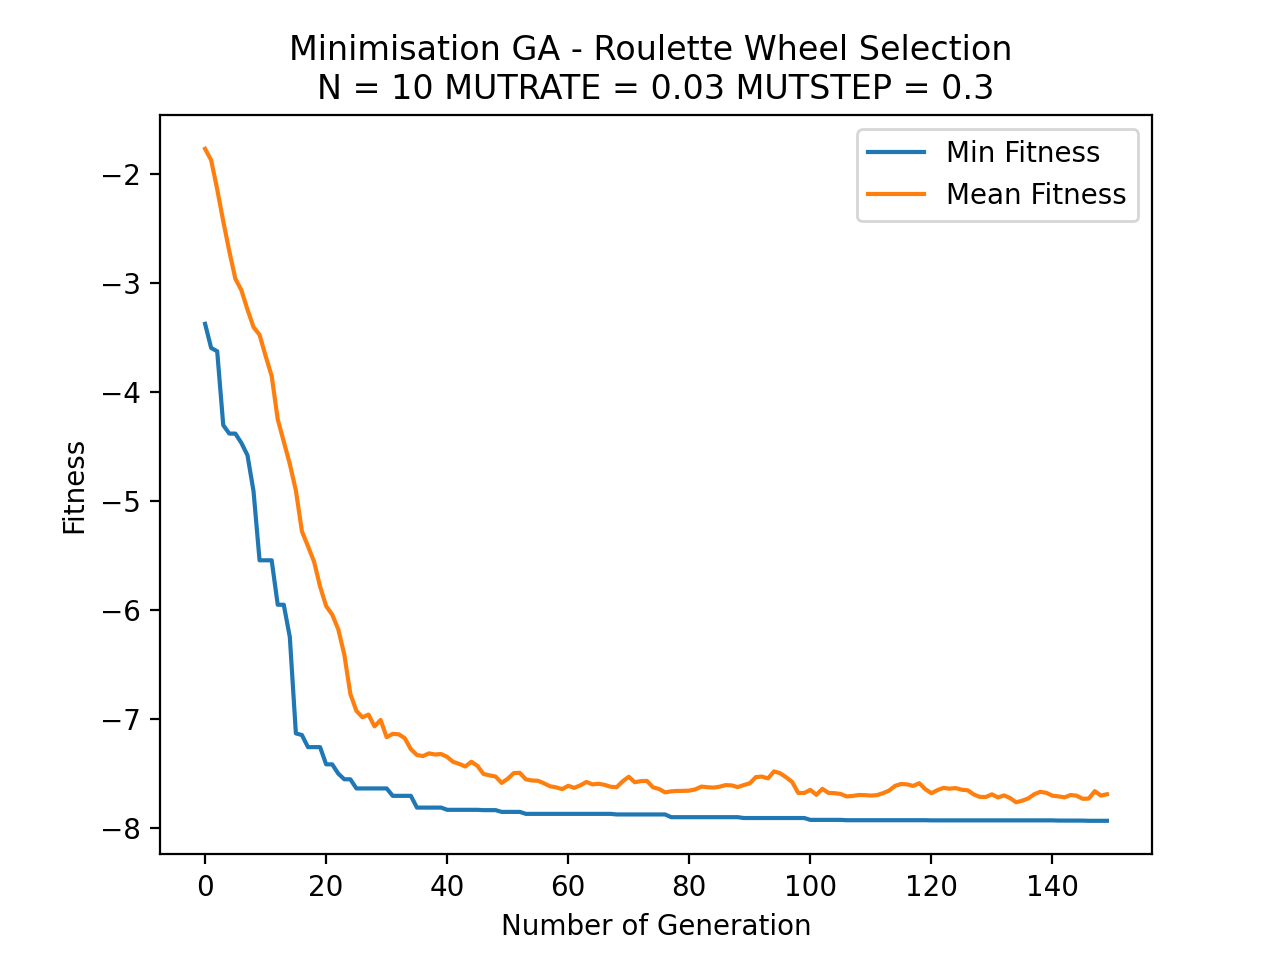
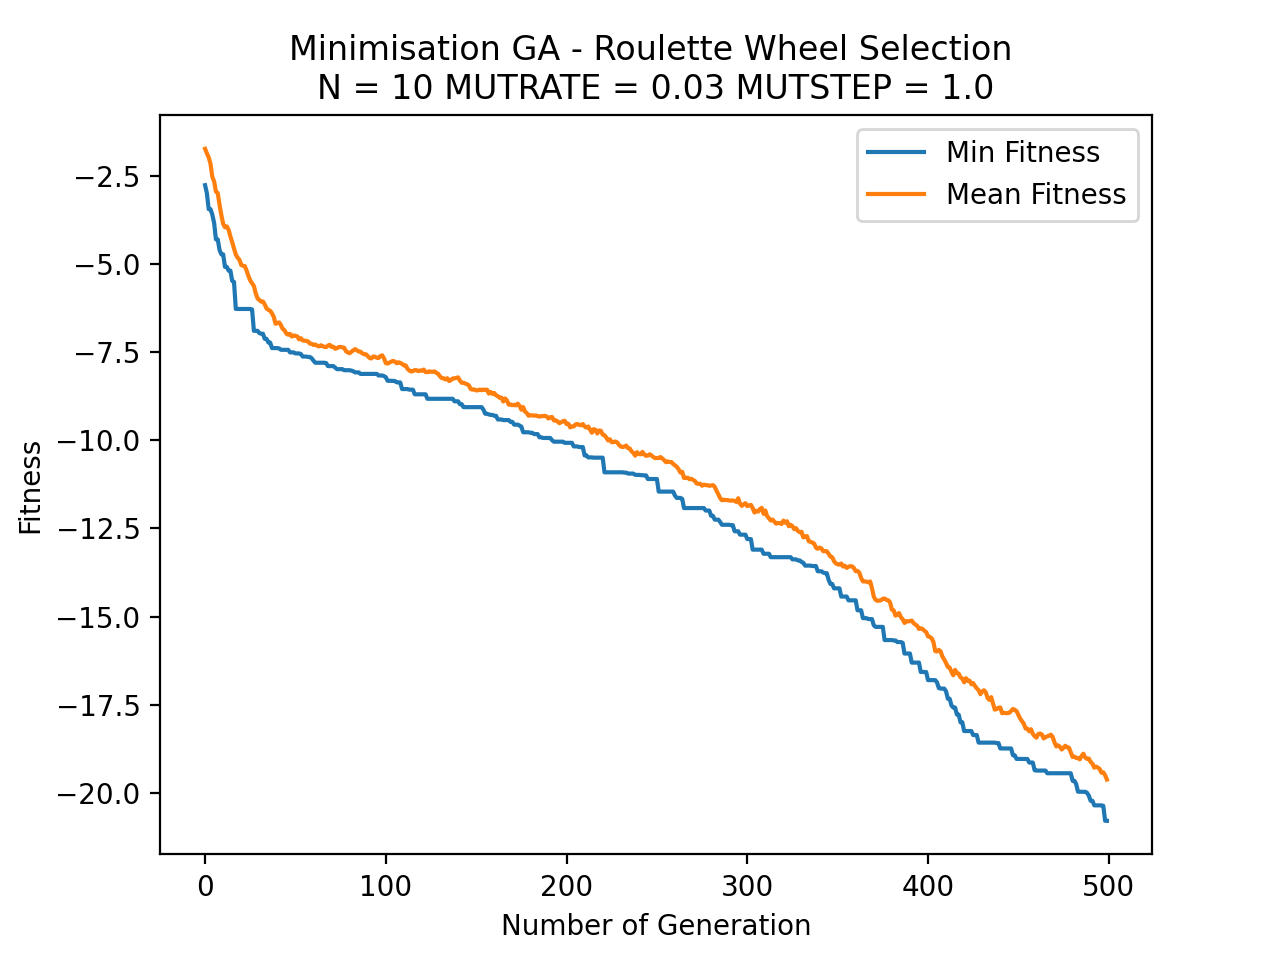
updated Ackley function Experiment with length of genes 20

diff --git a/Experiment/Ackley function/README.md b/Experiment/Ackley function/README.md
@@ -6,17 +6,19 @@
 
 - N = 10
 - MUTRATE = 0.03
-- MUTSTEP = 0.3
-- Min Fitness: -10.708492338435587 - TS
-- Min Fitness: -9.426192516643226 - RW
+- MUTSTEP = 1.0
+- GENERATIONS = 500
+- Min Fitness: -22.70467498720863 - TS
+- Min Fitness: -22.660896711024847 - RW
 
-- ![alt text](https://github.com/Liam1809/Bio_Computation/blob/main/Experiment/Ackley%20function/TSRWN50.png)
+- ![alt text](https://github.com/Liam1809/Bio_Computation/blob/main/Experiment/Ackley%20function/TSRWN20.png)
 
-- N = 50
+- N = 20
 - MUTRATE = 0.03
-- MUTSTEP = 0.3
-- Min Fitness: -4.225967898881414 - TS
-- Min Fitness: -4.0251242091551624 - RW
+- MUTSTEP = 1.0
+- GENERATIONS = 2000
+- Min Fitness: -22.711527080568395 - TS
+- Min Fitness: -22.492373930549075 - RW
 
 
 ## TOURANMENT SELECTION 
@@ -26,19 +28,19 @@
 
 - N = 10
 - MUTRATE = 0.03
-- MUTSTEP = 0.3
-- Min Fitness: -10.852278293354441
-- Mean Fitness: -10.804764892978262
+- MUTSTEP = 1.0
+- Min Fitness: -22.69766205527787
+- Mean Fitness: -22.482874238764634
 
 ### Vary MUTRATE
 - ![alt text](https://github.com/Liam1809/Bio_Computation/blob/main/Experiment/Ackley%20function/varyMUTRATETS.png)
 
 - N = 10
-- MUTSTEP = 0.3
-- Min Fitness: -8.610121679863145 - MUTRATE 0.3
-- Min Fitness: -11.170587355807932 - MUTRATE 0.03
-- Min Fitness: -9.524295765255925 - MUTRATE 0.003
-- Min Fitness: -8.867615254560471 - MUTRATE 0.0003
+- MUTSTEP = 1.0
+- Min Fitness: -22.217696415755263 - MUTRATE 0.3
+- Min Fitness: -22.70308682584893 - MUTRATE 0.03
+- Min Fitness: -16.68581671572027 - MUTRATE 0.003
+- Min Fitness: -14.860042035928736 - MUTRATE 0.0003
 
 
 ## ROULETTE WHEEL SELECTION 
@@ -48,15 +50,15 @@
 
 - N = 10
 - MUTRATE = 0.03
-- MUTSTEP = 0.3
-- Min Fitness: -7.929936862642863
-- Mean Fitness: -7.686559831777039
+- MUTSTEP = 1.0
+- Min Fitness: -20.795512818455332
+- Mean Fitness: -19.624791800370012
 
 ### Vary MUTRATE
 - ![alt text](https://github.com/Liam1809/Bio_Computation/blob/main/Experiment/Ackley%20function/varyMUTRATERW.png)
 
-- MUTSTEP = 0.3
-- Min Fitness: -14.254437249778938 - MUTRATE 0.3
-- Min Fitness: -10.447878031888726 - MUTRATE 0.03
-- Min Fitness: -9.727185493333165 - MUTRATE 0.003
-- Min Fitness: -8.94342734801122 - MUTRATE 0.0003
+- N = 10- MUTSTEP = 0.3
+- Min Fitness: -21.630902608565513 - MUTRATE 0.3
+- Min Fitness: -22.537768512420485 - MUTRATE 0.03
+- Min Fitness: -14.327707795023953 - MUTRATE 0.003
+- Min Fitness: -10.099371746515887 - MUTRATE 0.0003
